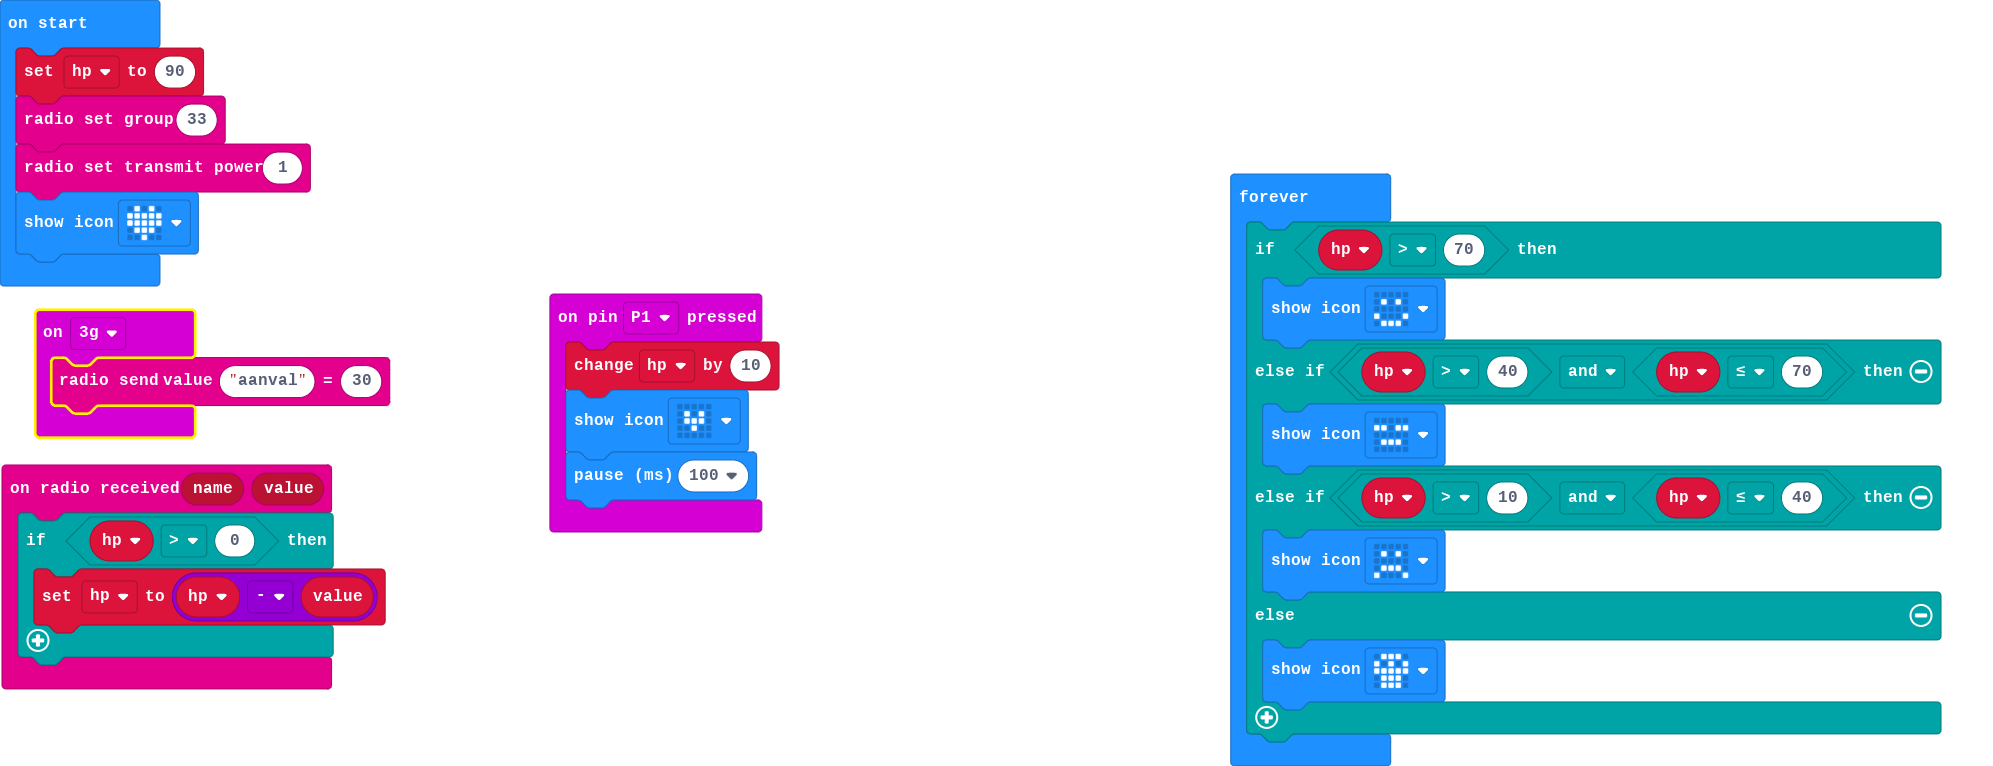
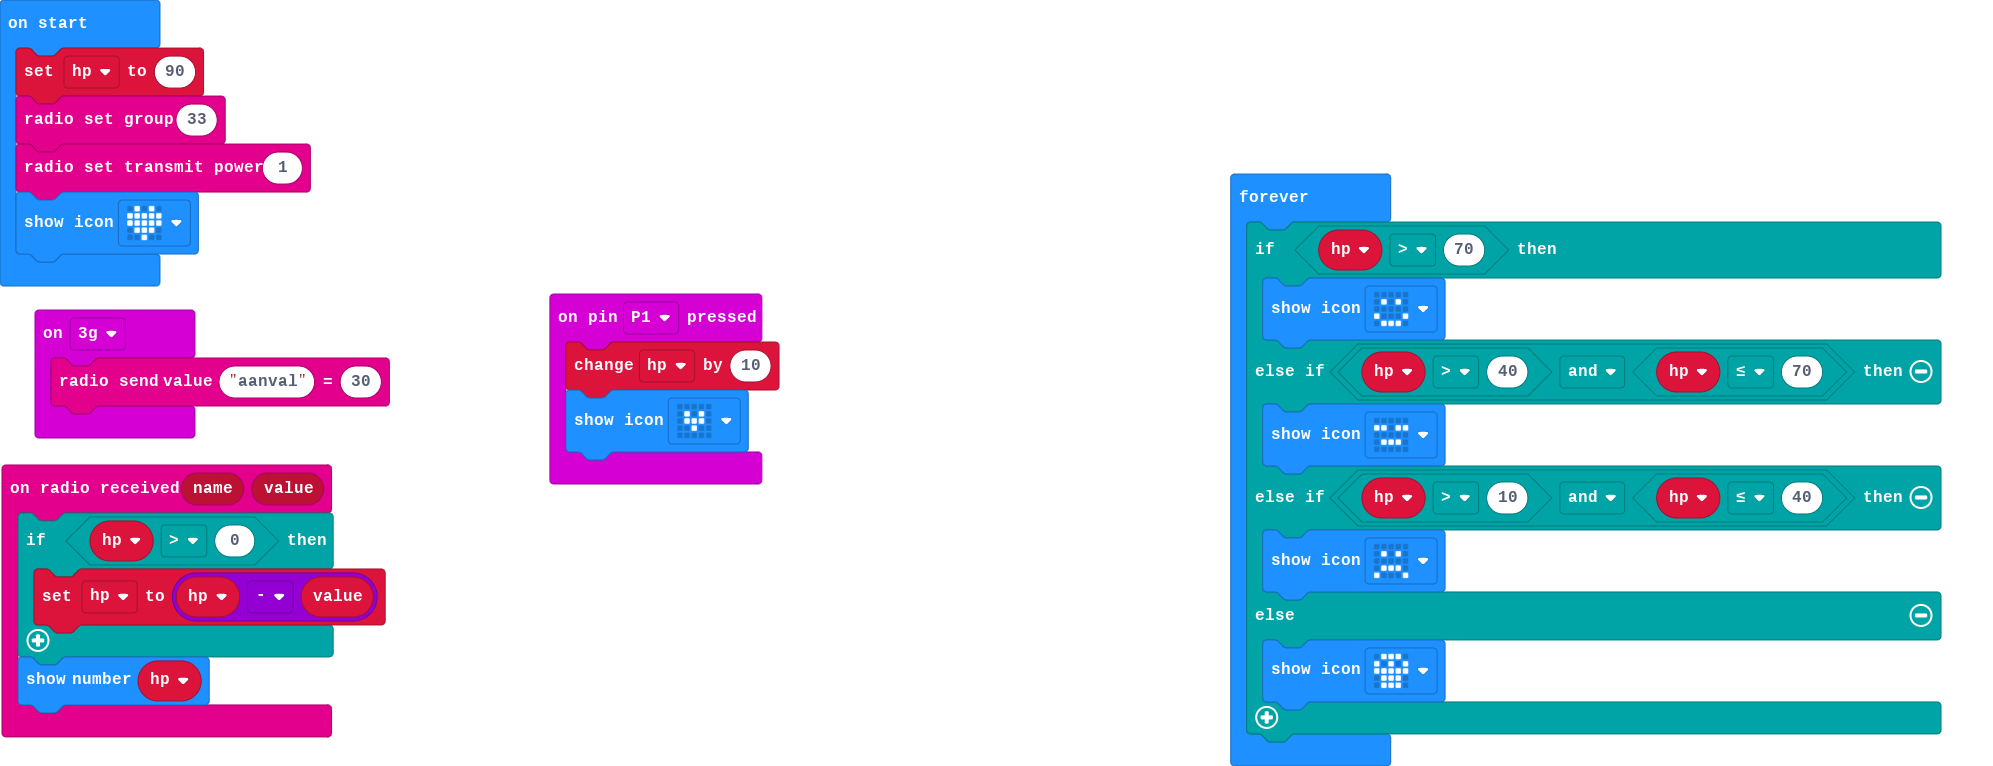
Update main.blocks, main.ts

Changed region(s): [[0.0, 0.8407, 0.1867, 0.9608], [0.2489, 0.5705, 0.4044, 0.7206], [0.0, 0.3903, 0.1867, 0.5405]]

diff --git a/main.ts b/main.ts
@@ -1,12 +1,12 @@
 input.onPinPressed(TouchPin.P1, function () {
     hp += 10
     basic.showIcon(IconNames.SmallHeart)
-    basic.pause(100)
 })
 radio.onReceivedValue(function (name, value) {
     if (hp > 0) {
         hp = hp - value
     }
+    basic.showNumber(hp)
 })
 input.onGesture(Gesture.ThreeG, function () {
     radio.sendValue("aanval", 30)
